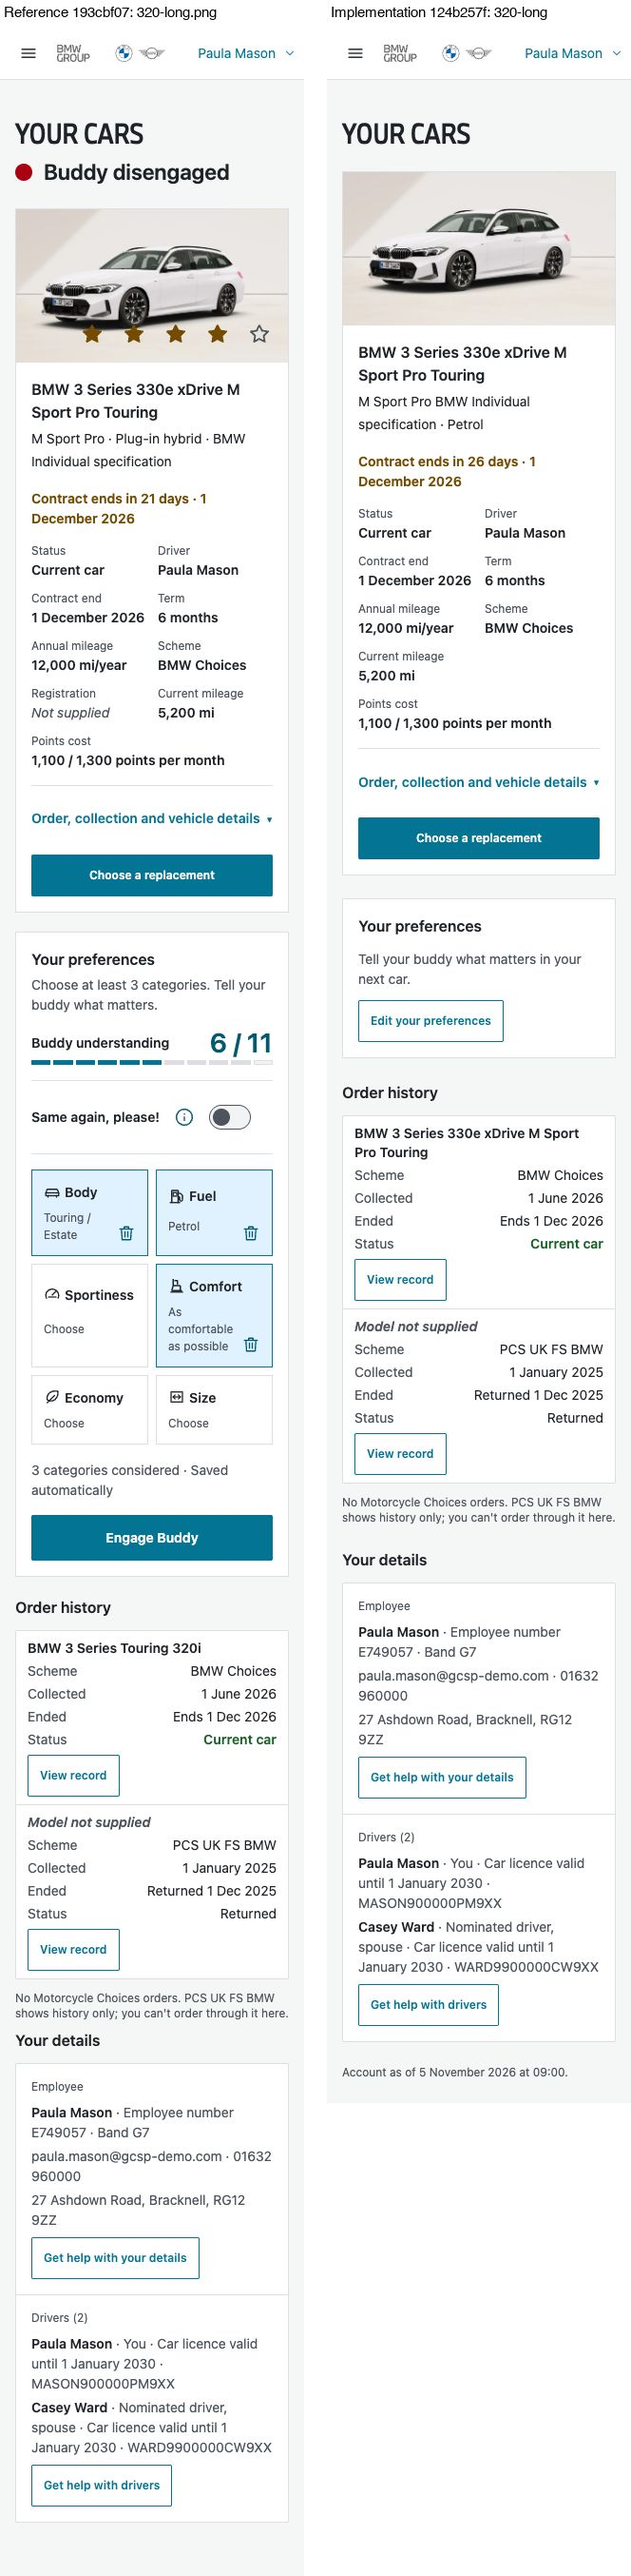
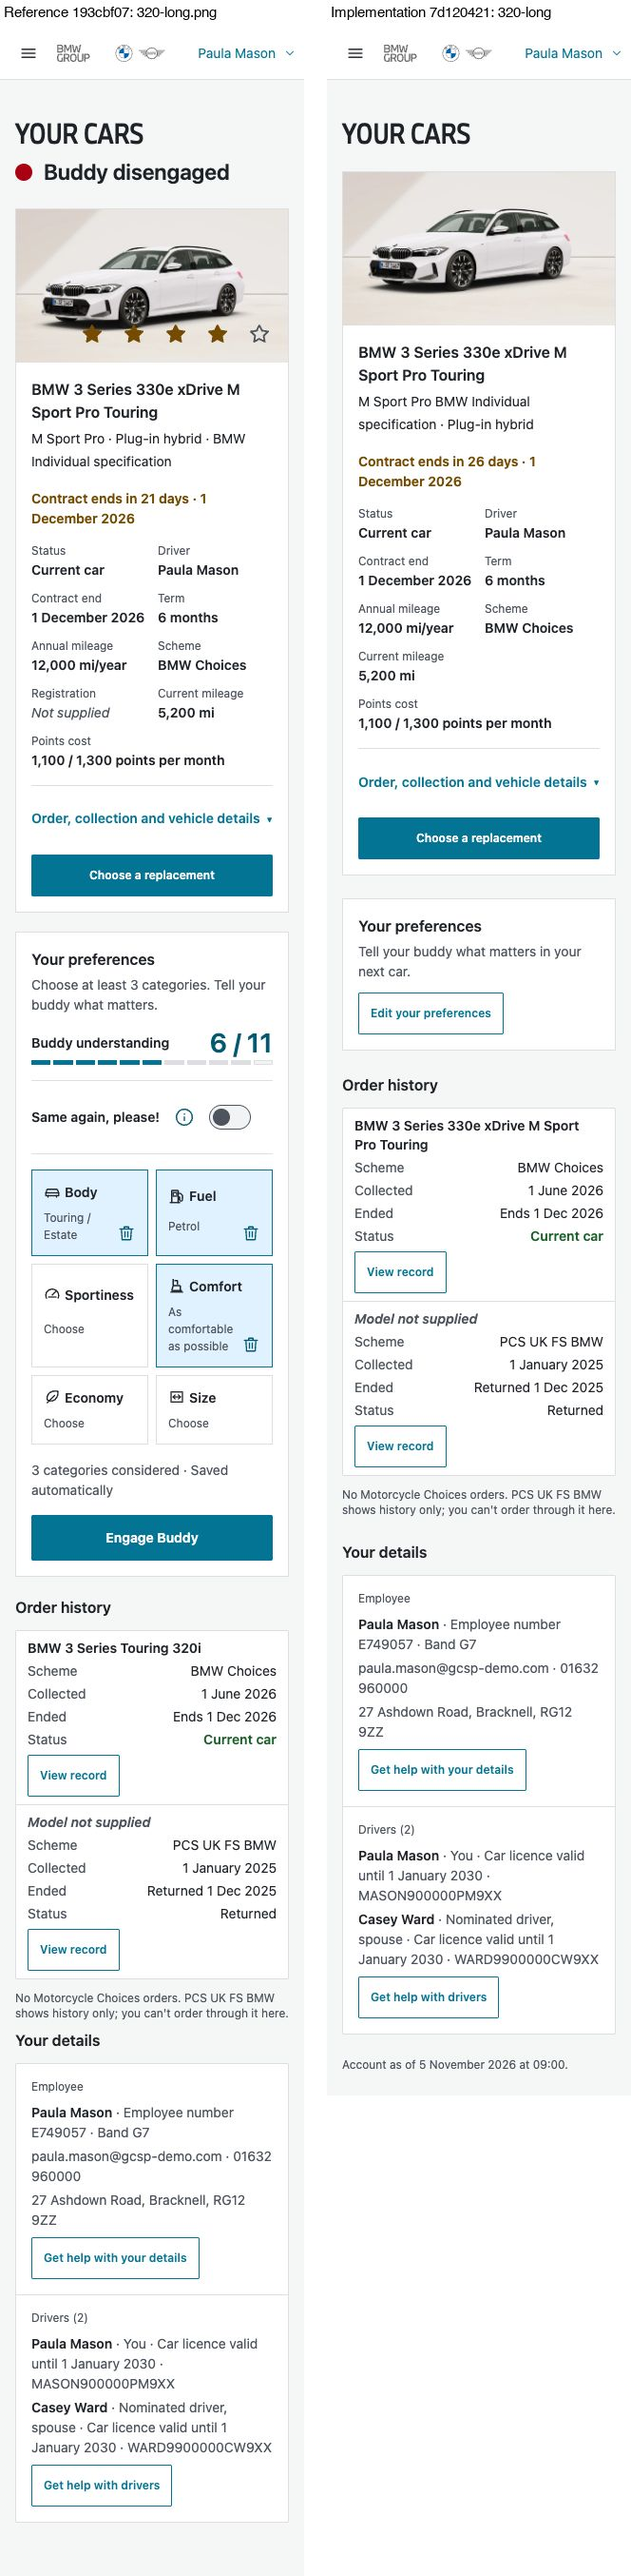
FUCQ-359: independent critique fixes, preferences heading gap and a truthful long-variant fuel
Hugo's critique F5 (heading to note gap 4px as the reference) and F7 (330e variant reads Plug-in hybrid).

Changed region(s): [[0.5422, 0.3724, 0.9639, 0.8068]]

diff --git a/blocks/gcsp/account/gcsp-account.css b/blocks/gcsp/account/gcsp-account.css
@@ -17,7 +17,7 @@ gcsp-account { display: block; }
 .gcsp .gcsp-account-car-facts > .vm-fact:last-child { grid-column: 1 / -1; }
 .gcsp .gcsp-account-preferences { display: flex; flex-direction: column; gap: var(--gcsp-space-3); padding: var(--gcsp-space-6); background: var(--gcsp-surface); border: 1px solid var(--gcsp-divider); }
 .gcsp .gcsp-account-preferences > * { margin: 0; }
-.gcsp .gcsp-account-preferences .vm-btn { align-self: flex-start; }
+.gcsp .gcsp-account-preferences .vm-btn { align-self: flex-start; } .gcsp .gcsp-account-preferences > h2 + .gcsp-note { margin-top: calc(var(--gcsp-space-1) - var(--gcsp-space-3)); }
 .gcsp .gcsp-account-secondary { display: flex; flex-direction: column; gap: var(--gcsp-space-6); }
 .gcsp .gcsp-account-section, .gcsp .gcsp-account-history { display: flex; flex-direction: column; gap: var(--gcsp-space-3); }
 .gcsp .gcsp-account-history .gcsp-table-caption { position: absolute; width: 1px; height: 1px; overflow: hidden; clip-path: inset(50%); padding: 0; } /* the h2 already titles the table */
